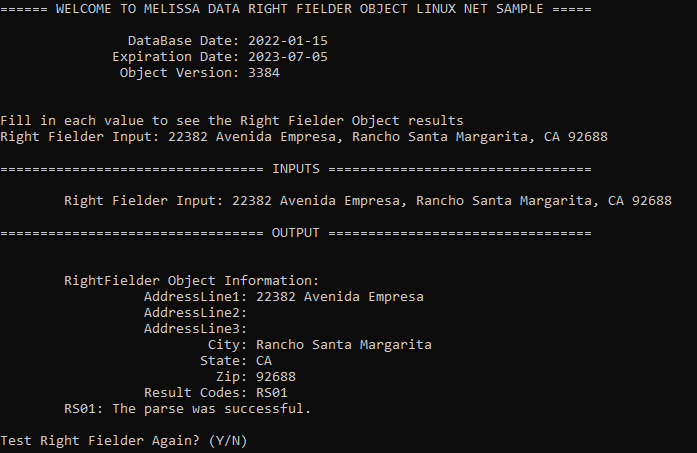
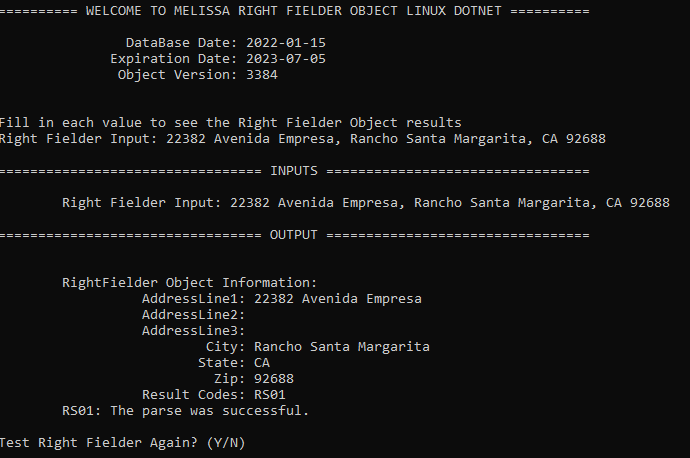
Commit C# Dotnet code for Right Fielder Object with release notes

diff --git a/MelissaRightFielderObjectLinuxDotnet/Program.cs b/MelissaRightFielderObjectLinuxDotnet/Program.cs
@@ -5,7 +5,7 @@ using System.IO;
 using System.Reflection;
 using MelissaData;
 
-namespace MelissaDataRightFielderObjectLinuxNETSample
+namespace MelissaRightFielderObjectLinuxDotnet
 {
   class Program
   {
@@ -51,7 +51,7 @@ namespace MelissaDataRightFielderObjectLinuxNETSample
 
     static void RunAsConsole(string license, string testInput, string dataPath)
     {
-      Console.WriteLine("\n\n====== WELCOME TO MELISSA DATA RIGHT FIELDER OBJECT LINUX NET SAMPLE =====\n");
+      Console.WriteLine("\n\n========== WELCOME TO MELISSA RIGHT FIELDER OBJECT LINUX DOTNET ==========\n");
 
       RightFielderObject rightFielderObject = new RightFielderObject(license, dataPath);
 
@@ -162,16 +162,16 @@ namespace MelissaDataRightFielderObjectLinuxNETSample
           }
         }
       }
-      Console.WriteLine("\n================ THANK YOU FOR USING MELISSA DATA NET OBJECT ===============\n");
+      Console.WriteLine("\n================ THANK YOU FOR USING MELISSA DOTNET OBJECT ===============\n");
     }
   }
 
   class RightFielderObject
   {
-    // Path to right fielder object data files (.dat, etc)
+    // Path to Right Fielder Object data files (.dat, etc)
     string dataFilePath;
 
-    // Create instance of Melissa Data Right Fielder Object
+    // Create instance of Melissa Right Fielder Object
     public mdRightFielder mdRightFielder = new mdRightFielder();
 
     public RightFielderObject(string license, string dataPath)
@@ -195,7 +195,7 @@ namespace MelissaDataRightFielderObjectLinuxNETSample
       Console.WriteLine($"              Expiration Date: {mdRightFielder.GetLicenseExpirationDate()}");
 
       /**
-       * This number should match with file properties of the Melissa Data Object binary file.
+       * This number should match with file properties of the Melissa Object binary file.
        * If TEST appears with the build number, there may be a license key issue.
        */
       Console.WriteLine($"               Object Version: {mdRightFielder.GetBuildNumber()}\n");
@@ -204,15 +204,15 @@ namespace MelissaDataRightFielderObjectLinuxNETSample
     // This will call the lookup function to process the input as well as generate the result codes
     public void ExecuteObjectAndResultCodes(ref DataContainer data)
     {
-      // These are the configuarble pieces of the right fielder object. We are setting what kind of information we want to be looked up
+      // These are the configuarble pieces of the Right Fielder object. We are setting what kind of information we want to be looked up
       // SetUserPattern Method - Ex. Social Security Number
 
       //mdRightFielder.SetUserPattern("SSN", "[0-9]{3}-[0-9]{2}-[0-9]{4}");
       mdRightFielder.Parse(data.Input);
       data.ResultCodes = mdRightFielder.GetResults();
 
-      // ResultsCodes explain any issues phone object has with the object.
-      // List of result codes for Phone object
+      // ResultsCodes explain any issues Right Fielder Object has with the object.
+      // List of result codes for Right Fielder Object
       // https://wiki.melissadata.com/?title=Result_Code_Details#RightFielder_Object
     }
   }

diff --git a/README.md b/README.md
@@ -1,8 +1,12 @@
-# Melissa Data Right Fielder Object Linux Net Sample
+# Melissa - Right Fielder Object Linux Dotnet
 
 ## Purpose
 
-This is a sample of the Melissa Data Right Fielder Object using C#
+This code showcases the Melissa Right Fielder Object using C#.
+
+Please feel free to copy or embed this code to your own project. Happy coding!
+
+For the latest Melissa Right Fielder Object release notes, please visit: https://releasenotes.melissa.com/on-premise-api/rightfielder-object/
 
 The console will ask the user for:
 
@@ -27,7 +31,7 @@ And return
 
 #### libmdRightFielder.so
 
-This is the code of the Melissa Data Object.
+This is the code of the Melissa Object.
 
 #### Data File(s)
 
@@ -109,19 +113,19 @@ Melissa Updater is a CLI application allowing the user to update their Melissa a
 	- It will handle all of the data download/path and .so file(s) for you. 
 2.  If you already have the latest DQS Release (ZIP), you can find the data file(s) and .so file(s) in there
 	- Use the location of where you copied/installed the data and update the "DataPath" variable in the bash script.
-	- Copy all the .so file(s) mentioned above into the `MelissaDataRightFielderObjectLinuxNETSample` project folder.
+	- Copy all the .so file(s) mentioned above into the `MelissaRightFielderObjectLinuxDotnet` project folder.
 	
 ----------------------------------------
 
 #### Configure Target Framework
 
-Depending on your target .NET framework, you may need to configure the bash script. In order to do this, open up the `MelissaDataRightFielderObjectLinuxNETSample.sh` for editing, proceed to the bottom of the script where you will find this section of code.
+Depending on your target .NET framework, you may need to configure the bash script. In order to do this, open up the `MelissaRightFielderObjectLinuxDotnet.sh` for editing, proceed to the bottom of the script where you will find this section of code.
 
 Default set for .NET 7.0
 ```
-dotnet publish -f="net7.0" -c Release -o $BuildPath MelissaDataRightFielderObjectLinuxNETSample/MelissaDataRightFielderObjectLinuxNETSample.csproj
-#dotnet publish -f="net5.0" -c Release -o $BuildPath MelissaDataRightFielderObjectLinuxNETSample/MelissaDataRightFielderObjectLinuxNETSample.csproj
-#dotnet publish -f="netcoreapp3.1" -c Release -o $BuildPath MelissaDataRightFielderObjectLinuxNETSample/MelissaDataRightFielderObjectLinuxNETSample.csproj
+dotnet publish -f="net7.0" -c Release -o $BuildPath MelissaRightFielderObjectLinuxDotnet/MelissaRightFielderObjectLinuxDotnet.csproj
+#dotnet publish -f="net5.0" -c Release -o $BuildPath MelissaRightFielderObjectLinuxDotnet/MelissaRightFielderObjectLinuxDotnet.csproj
+#dotnet publish -f="netcoreapp3.1" -c Release -o $BuildPath MelissaRightFielderObjectLinuxDotnet/MelissaRightFielderObjectLinuxDotnet.csproj
 ```
 The target framework is specified with the -f flag found in the command line. If you wish to use any version besides .NET 7.0, please uncomment the line containing that framework and comment out the line containing the .NET 7.0 framework (# to comment).
 
@@ -129,7 +133,7 @@ The target framework is specified with the -f flag found in the command line. If
 
 To be able to run the bash script, you must first make it an executable using the command:
 
-`chmod +x MelissaDataRightFielderObjectLinuxNETSample.sh`
+`chmod +x MelissaRightFielderObjectLinuxDotnet.sh`
 
 As an indicator, the filename will change colors once it becomes an executable.
 
@@ -140,31 +144,31 @@ Parameters:
  	
   This is convenient when you want to get results for a specific right fielder input in one run instead of testing multiple right fielder inputs in interactive mode.  
 
-- -l or --license (optional): a license string to test the right fielder object  
+- -l or --license (optional): a license string to test the Right Fielder Object  
 - -q or --quiet (optional): add to the command if you do not want to get any console output from the Melissa Updater
 
 When you have modified the script to match your data location, let's run the script. There are two modes:
 - Interactive 
 
-	The script will prompt the user for the right fielder input, then use the provided right fielder input to test the Right Fielder object. For example:
+	The script will prompt the user for the right fielder input, then use the provided right fielder input to test the Right Fielder Object. For example:
 	```
-	$ ./MelissaDataRightFielderObjectLinuxNETSample.sh
+	$ ./MelissaRightFielderObjectLinuxDotnet.sh
 	```
     For quiet mode:
     ```
-    $ ./MelissaDataRightFielderObjectLinuxNETSample.sh --quiet
+    $ ./MelissaRightFielderObjectLinuxDotnet.sh --quiet
     ```
 - Command Line 
 
-	You can pass a right fielder input in ```--rfinput``` parameter and a license string in ```--license``` parameter to test right fielder object. For example:
+	You can pass a right fielder input in ```--rfinput``` parameter and a license string in ```--license``` parameter to test Right Fielder Object. For example:
 	```
-    $ ./MelissaDataRightFielderObjectLinuxNETSample.sh --rfinput "22382 Avenida Empresa, Rancho Santa Margarita, CA 92688"
-	$ ./MelissaDataRightFielderObjectLinuxNETSample.sh --rfinput "22382 Avenida Empresa, Rancho Santa Margarita, CA 92688" --license "<your_license_string>" 
+    $ ./MelissaRightFielderObjectLinuxDotnet.sh --rfinput "22382 Avenida Empresa, Rancho Santa Margarita, CA 92688"
+	$ ./MelissaRightFielderObjectLinuxDotnet.sh --rfinput "22382 Avenida Empresa, Rancho Santa Margarita, CA 92688" --license "<your_license_string>" 
     ```
 	For quiet mode:
     ```
-    $ ./MelissaDataRightFielderObjectLinuxNETSample.sh --rfinput "22382 Avenida Empresa, Rancho Santa Margarita, CA 92688" --quiet
-	$ ./MelissaDataRightFielderObjectLinuxNETSample.sh --rfinput "22382 Avenida Empresa, Rancho Santa Margarita, CA 92688" --license "<your_license_string>" --quiet
+    $ ./MelissaRightFielderObjectLinuxDotnet.sh --rfinput "22382 Avenida Empresa, Rancho Santa Margarita, CA 92688" --quiet
+	$ ./MelissaRightFielderObjectLinuxDotnet.sh --rfinput "22382 Avenida Empresa, Rancho Santa Margarita, CA 92688" --license "<your_license_string>" --quiet
     ```
 This is the expected output from a successful setup for interactive mode:
 
@@ -172,7 +176,7 @@ This is the expected output from a successful setup for interactive mode:
 
 ## Troubleshooting
 
-Troubleshooting for errors found while running your sample program.
+Troubleshooting for errors found while running your program.
 
 ### C# Errors:
 
@@ -185,8 +189,6 @@ Troubleshooting for errors found while running your sample program.
 
 ## Contact Us
 
-For free technical support, please call us at 800-MELISSA ext. 4
-(800-635-4772 ext. 4) or email us at tech@MelissaData.com.
+For free technical support, please call us at 800-MELISSA ext. 4 (800-635-4772 ext. 4) or email us at tech@melissa.com.
 
-To purchase this product, contact Melissa Data sales department at
-800-MELISSA ext. 3 (800-635-4772 ext. 3).
+To purchase this product, contact the Melissa sales department at 800-MELISSA ext. 3 (800-635-4772 ext. 3).

diff --git a/LICENSE.md b/LICENSE.md
@@ -1,0 +1,21 @@
+MIT License
+
+Copyright (c) Melissa Data Corporation
+
+Permission is hereby granted, free of charge, to any person obtaining a copy
+of this software and associated documentation files (the "Software"), to deal
+in the Software without restriction, including without limitation the rights
+to use, copy, modify, merge, publish, distribute, sublicense, and/or sell
+copies of the Software, and to permit persons to whom the Software is
+furnished to do so, subject to the following conditions:
+
+The above copyright notice and this permission notice shall be included in all
+copies or substantial portions of the Software.
+
+THE SOFTWARE IS PROVIDED "AS IS", WITHOUT WARRANTY OF ANY KIND, EXPRESS OR
+IMPLIED, INCLUDING BUT NOT LIMITED TO THE WARRANTIES OF MERCHANTABILITY,
+FITNESS FOR A PARTICULAR PURPOSE AND NONINFRINGEMENT. IN NO EVENT SHALL THE
+AUTHORS OR COPYRIGHT HOLDERS BE LIABLE FOR ANY CLAIM, DAMAGES OR OTHER
+LIABILITY, WHETHER IN AN ACTION OF CONTRACT, TORT OR OTHERWISE, ARISING FROM,
+OUT OF OR IN CONNECTION WITH THE SOFTWARE OR THE USE OR OTHER DEALINGS IN THE
+SOFTWARE.
